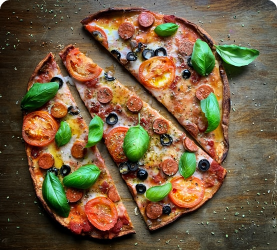
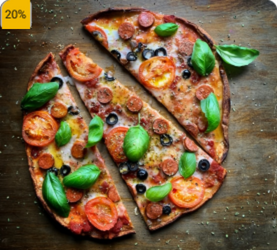
labels added

diff --git a/index.html b/index.html
@@ -81,7 +81,7 @@
        <div class="line1">
 
             <div>
-                <img  src="foodimages/food3.png" alt="" class="food3">
+                <img  src="foodimages/food3_1.png" alt="" class="food3">
                 <div class="about">
                     <div class="name-and-rating">
                         <p>Home made Pizza</p>
@@ -267,7 +267,7 @@
             </div>
 
             <div>
-                <img  src="foodimages/food5.png" alt="" class="food5">
+                <img  src="foodimages/food5_1.png" alt="" class="food5">
                 <div class="about">
                     <div class="name-and-rating">
                         <p>Home made Pizza</p>
@@ -297,7 +297,7 @@
             </div>
 
             <div>
-                <img  src="foodimages/food8.png" alt="" class="food8">
+                <img  src="foodimages/food8_1.png" alt="" class="food8">
                 <div class="about">
                     <div class="name-and-rating">
                         <p>Home made Pizza</p>
@@ -333,7 +333,7 @@
         <div class="line3">
 
             <div>
-                <img  src="foodimages/food3.png" alt="" class="food3">
+                <img  src="foodimages/food3_1.png" alt="" class="food3">
                 <div class="about">
                     <div class="name-and-rating">
                         <p>Home made Pizza</p>
@@ -502,7 +502,7 @@
                 </div>
             </div>
             <div class="products">
-                <img  src="food9.png" alt="" class="food9">
+                <img  src="foodimages/food9.png" alt="" class="food9">
                 <div class="about">
                     <div class="name-and-rating">
                         <p>Tandoori Chicken</p>
@@ -531,7 +531,7 @@
                 </div>
             </div>
             <div class="products">
-                <img  src="food10.png" alt="" class="food10">
+                <img  src="foodimages/food10.png" alt="" class="food10">
                 <div class="about">
                     <div class="name-and-rating">
                         <p>Chilli Chicken</p>
@@ -740,16 +740,20 @@
                 </div>
             </div>
         </div>
-        <button class = "request">Request a dish</button>
+        <!-- <button class = "request">Request a dish</button>
         <div class="modal" id="modal">
             <div class="modal-header">
-                <h1>Request a dish</h1>
+                <div class="title">Request a dish</div>
 
             </div>
             <div class="modal-body">
-
+                <input type="text" placeholder="Enter name of the dish" class="name" value="Name*"/>
             </div>
-        </div>
+            <div class="cancel-and-submit">
+                <button class="cancel">Cancel</button>
+                <button class="submit">Submit</button>
+            </div>
+        </div> -->
     </section>
     <!-- <button>Request a dish</button> -->
 
@@ -766,7 +770,7 @@
             <p>Choose from a selection of our delicious home cooked dishes </p>
             </div>
             <div class="video-player">
-                <video src="food.mp4" poster="media bg-cover.png" class="video"width="877px" height="442px">
+                <video src="foodimages/food.mp4" poster="media bg-cover.png" class="video"width="877px" height="442px">
                 </video>
                 <div class="player-controls">
                  <button class="play-button" title="play"><img src="Arrow.png"></button>   

diff --git a/styles.css b/styles.css
@@ -398,7 +398,7 @@ header .hero-image{
     text-align: right;
 }
 
-button{
+.request{
     align-items: center;
     border: 2px solid #1AC073;
     background: #1AC073;
@@ -414,6 +414,9 @@ button{
     justify-content: center;
 }
 
+.modal-header h1{
+    text-align: center;
+}
 
 
 /* video section  */
@@ -452,7 +455,7 @@ button{
 
 .player-controls{
     position: absolute;
-    top: 160px;
+    top: 170px;
     left: 680px;
     z-index: 1;
 }
@@ -483,12 +486,14 @@ p{
     margin-right: 40px;
     border-radius: 10px;
     border: 2px solid #929292;
+    border: none;
 }
 
 .email-{
     padding: 22px;
     border-radius: 10px;
     border: 2px solid #929292;
+    border: none;
 }
 
 .message{
@@ -498,6 +503,7 @@ p{
     border-radius: 10px;
     margin-bottom: 40px;
     border: 2px solid #929292;
+    border: none;
 }
 
 .delivery{
